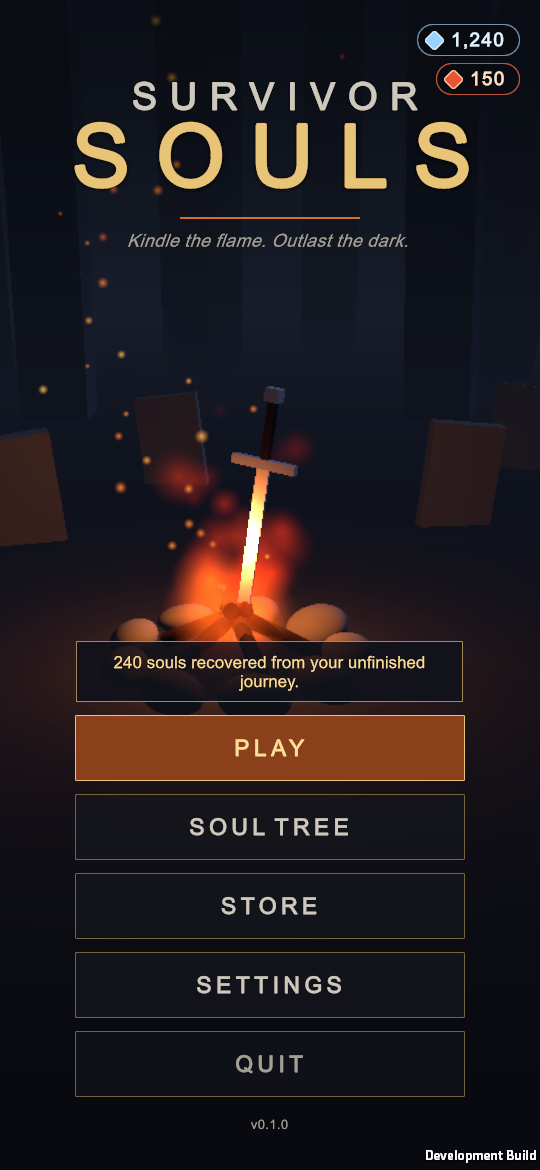
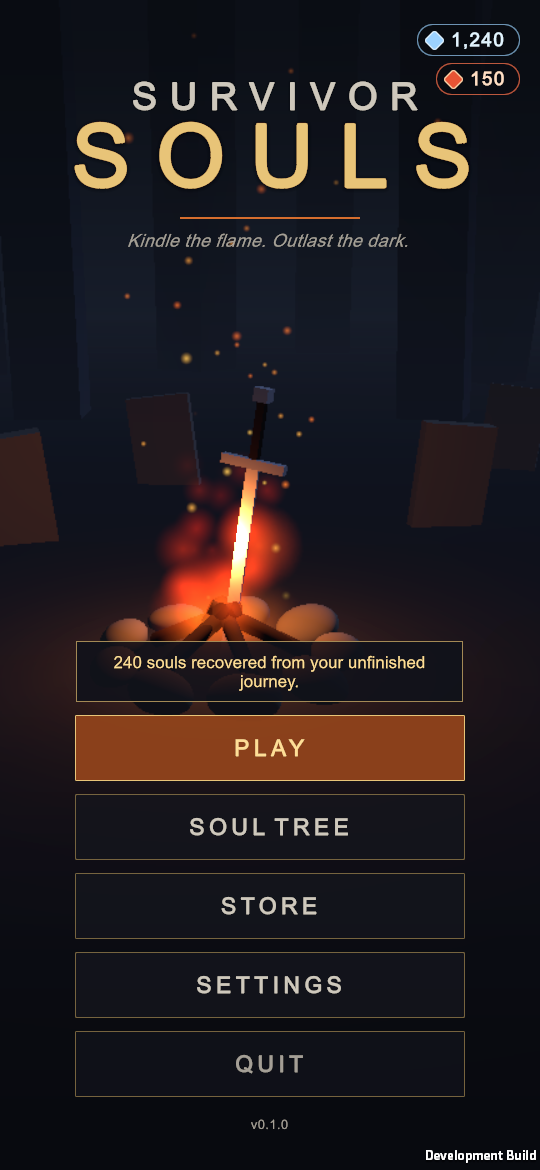
docs: KAN-101 state: 4 s toast, retest after merging main, screenshot at 2.5 s (KAN-101)

diff --git a/STATE.md b/STATE.md
@@ -554,10 +554,10 @@
   - Before: run souls went into `SoulWallet` only at a run end (death, Realm cleared, leave to menu). iOS kills background apps, so a kill mid-run lost them.
   - `Core/SoulWallet`: pending amount `wallet.souls.pending` + `.check` (own salt 0x5EED50F2, so a balance pair copied over fails). `SavePending(n)` (n <= 0 deletes), `PendingSouls` (bad checksum = dropped + warning), `ClearPending()`, `RestorePending()` (deletes first, then `Earn`: a crash between the two loses the amount, never doubles it). `Clear()` deletes the pending amount too.
   - `Gameplay/Chamber/RunCounters`: `OnApplicationPause(true)` and `OnApplicationFocus(false)` call `SavePendingSouls()` (saves `Souls` when `RunState.SoulsBanked` is false; a newer save replaces the old one; resume keeps it, so a later crash still keeps the souls). `BankToWallet` deletes the pending amount before it earns: no double count.
-  - `UI/MainMenu/MainMenuController.OnEnable`: `SoulWallet.RestorePending()` before the Souls pill reads the balance; a restore shows the toast `RecoveredText(n)` = "N souls recovered from your unfinished journey.". The menu is the only place with no run going (every path from the Game scene to the menu banks first).
-  - DevScreenshot `-ss-pending-souls <n>` (after `-ss-wallet`). Screenshot `Docs/screenshots/kan101-menu-souls-recovered.png` (`-ss-wallet 1000 -ss-pending-souls 240`: pill 1,240 + toast).
+  - `UI/MainMenu/MainMenuController.OnEnable`: `SoulWallet.RestorePending()` before the Souls pill reads the balance; a restore shows the toast `RecoveredText(n)` = "N souls recovered from your unfinished journey." for 4 s (as the welcome toast; the 2 s default hid it while the menu faded in). The menu is the only place with no run going (every path from the Game scene to the menu banks first).
+  - DevScreenshot `-ss-pending-souls <n>` (after `-ss-wallet`). Screenshot `Docs/screenshots/kan101-menu-souls-recovered.png` (`-ss-wallet 1000 -ss-pending-souls 240 -ss-delay 2.5`: pill 1,240 + toast).
   - Tests: `Tests/EditMode/SoulWalletPendingTests` (6): fresh none, save / replace / zero + negative delete, restore once + Changed, hand-edited pending dropped, balance-salt pair fails, Clear deletes. `Tests/PlayMode/PendingSoulsTests` (5): pause + focus loss save and replace, run end banks once + deletes, banked run saves nothing, kill then restore, menu start on the real UXML banks once with the toast (second start adds nothing). `WalletPrefsGuard` keeps + deletes the pending keys for the suite; `SoulWalletTests` keeps them.
-  - Verified: compile 0 errors / 0 new warnings, Game scene rebuild exit 0 (git clean), EditMode 118 pass, PlayMode 632 pass / 2 skipped / 0 fail, mac dev build: menu run restores 240 once (log `[SoulWallet] Restored 240`), second menu run restores nothing, Game run `-ss-horde 40` 115 draw calls, 0 exceptions in all 3 runs; iOS dev export + xcodebuild + install + launch on iPhone 14 Pro Max OK.
+  - Verified: compile 0 errors / 0 new warnings, Game scene rebuild exit 0 (git clean), EditMode 118 pass, PlayMode 632 pass / 2 skipped / 0 fail, mac dev build: menu run restores 240 once (log `[SoulWallet] Restored 240`), second menu run restores nothing, Game run `-ss-horde 40` 115 draw calls, 0 exceptions in all runs; same gate again after merging main (Shadow Ranger art) and the 4 s toast fix; iOS dev export + xcodebuild + install + launch on iPhone 14 Pro Max OK.
   - Limits: Android also sends `OnApplicationPause`, not tested on a device. A pending amount from an older run is banked at the next menu start even if the player starts a new run right away (wanted). The Mac dev build has no background kill to test by hand; the iPhone check is a kill from the app switcher mid-run, then open the app.
 
 ## DECISIONS
